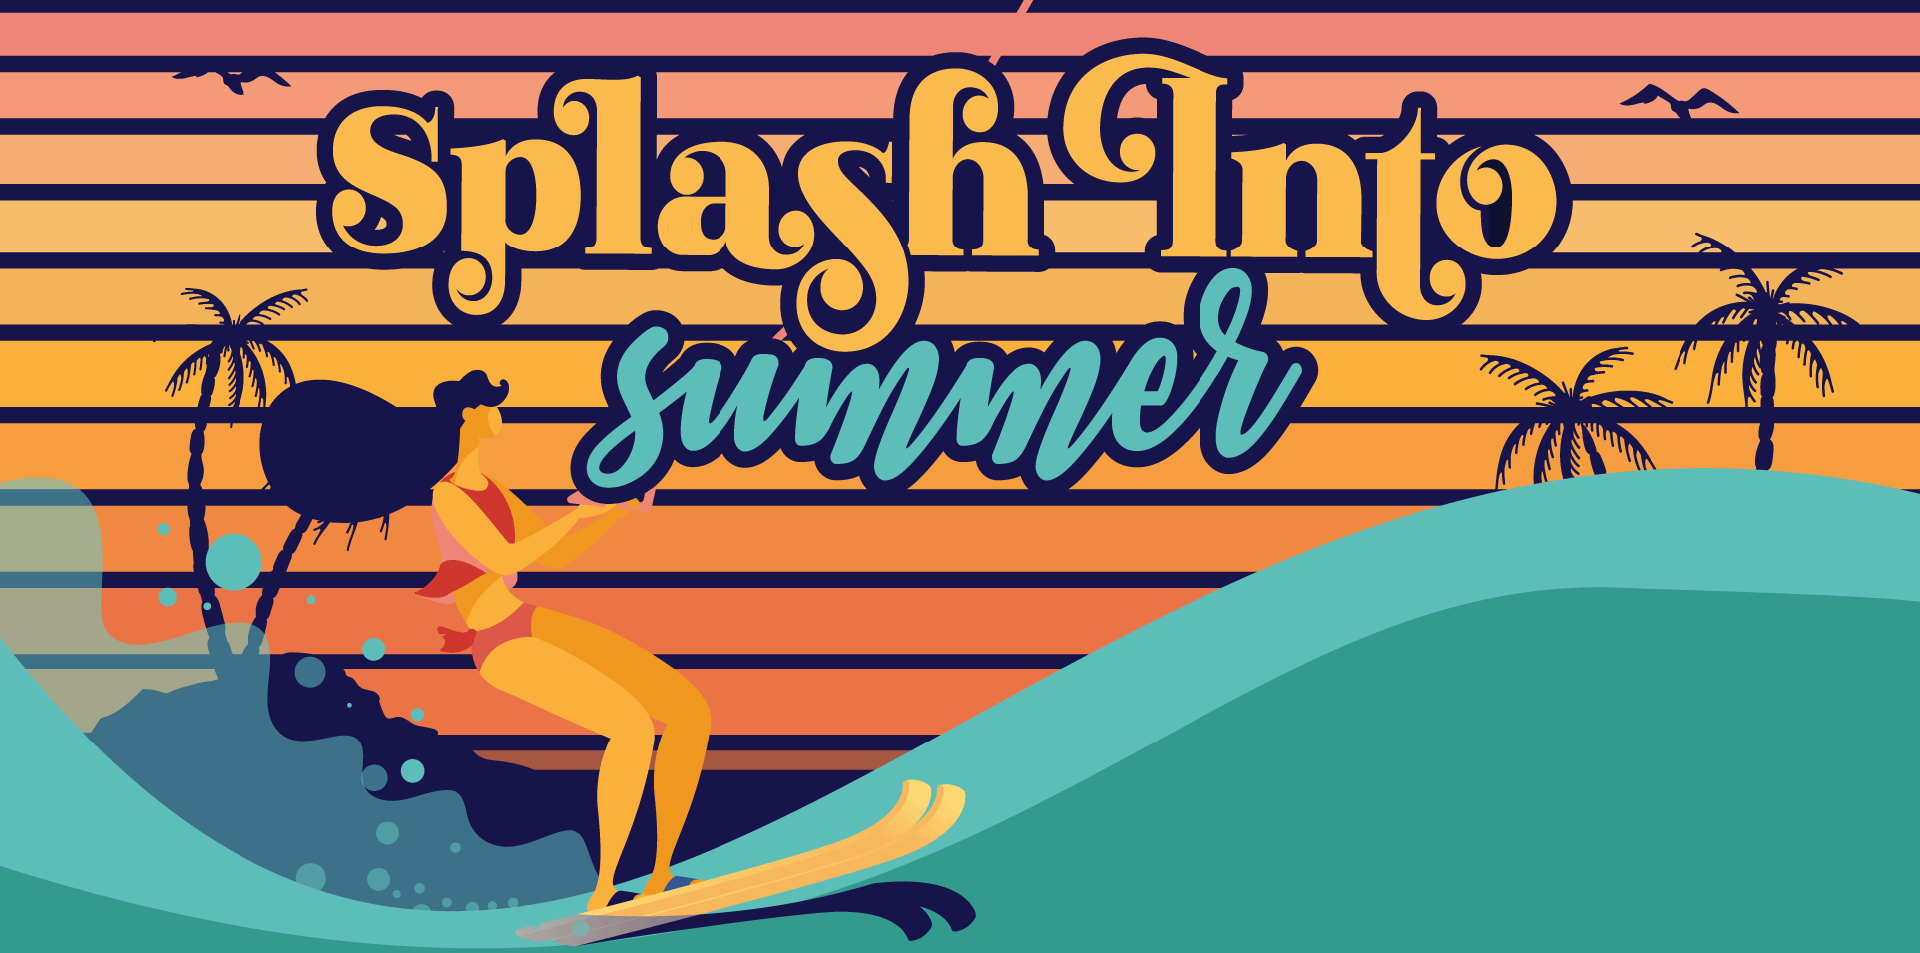
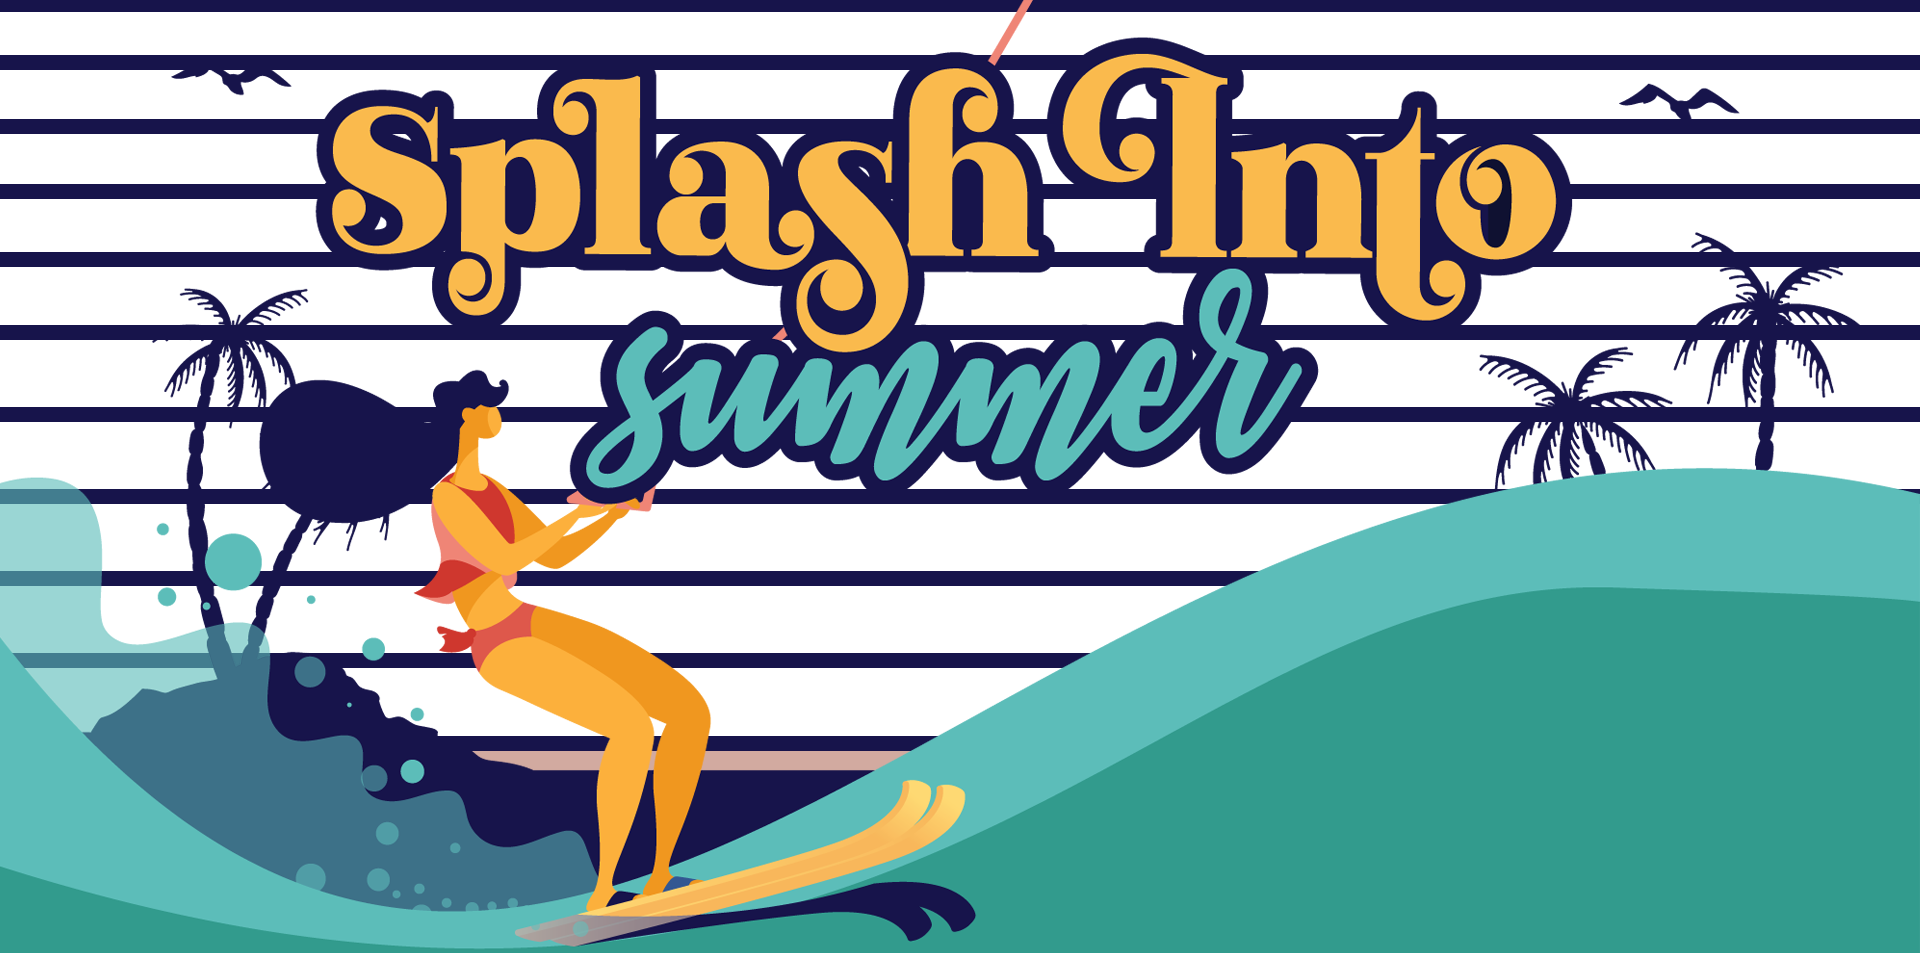
animated background

diff --git a/summer-reading/index.html b/summer-reading/index.html
@@ -93,6 +93,35 @@ e.async=true;var t=document.getElementsByTagName("script")[0];t.parentNode.inser
     background: #329b8d;
     padding-bottom: 45px;
 }
+        .banner-row-image {
+    background: linear-gradient(180deg, #cf1106, #fcc36c, #ef8576);
+    background-size: 400% 400%;
+    -webkit-animation: AnimationName 10s ease infinite;
+    animation: AnimationName 10s ease infinite;
+border-bottom: 45px solid #329B8D;
+}
+@-webkit-keyframes AnimationName {
+0% {
+background-position:0% 75%
+}
+50% {
+background-position:100% 25%
+}
+100% {
+background-position:0% 75%
+}
+}
+@keyframes AnimationName {
+0% {
+background-position:0% 75%
+}
+50% {
+background-position:100% 25%
+}
+100% {
+background-position:0% 75%
+}
+}
 .source {
     font-family: 'Source Serif Pro', serif;
     font-weight: 700;
@@ -529,7 +558,7 @@ height="0" width="0" style="display:none;visibility:hidden"></iframe>
     <div id="global-alert" class="container-md" style="display:none;"></div>
   </div>
   <!-- InstanceBeginEditable name="Content" -->
-  <div class="row banner-row"><img class="hidden-sm hidden-md hidden-lg img-responsive center-block" src="summer-reading-small.png" alt="Summer Reading"><img class="hidden-xs img-responsive center-block" src="summer-reading.png" alt="Summer Reading">
+  <div class="row banner-row"><div class="banner-row-image"><img class="hidden-sm hidden-md hidden-lg img-responsive center-block" src="summer-reading-small.png" alt="Summer Reading"><img class="hidden-xs img-responsive center-block" src="summer-reading.png" alt="Summer Reading"></div>
     <div class="static-container container">
       <ul class="source list-inline text-center button-group">
         <li class="one jello"><a href="registration/">Registration</a></li>
